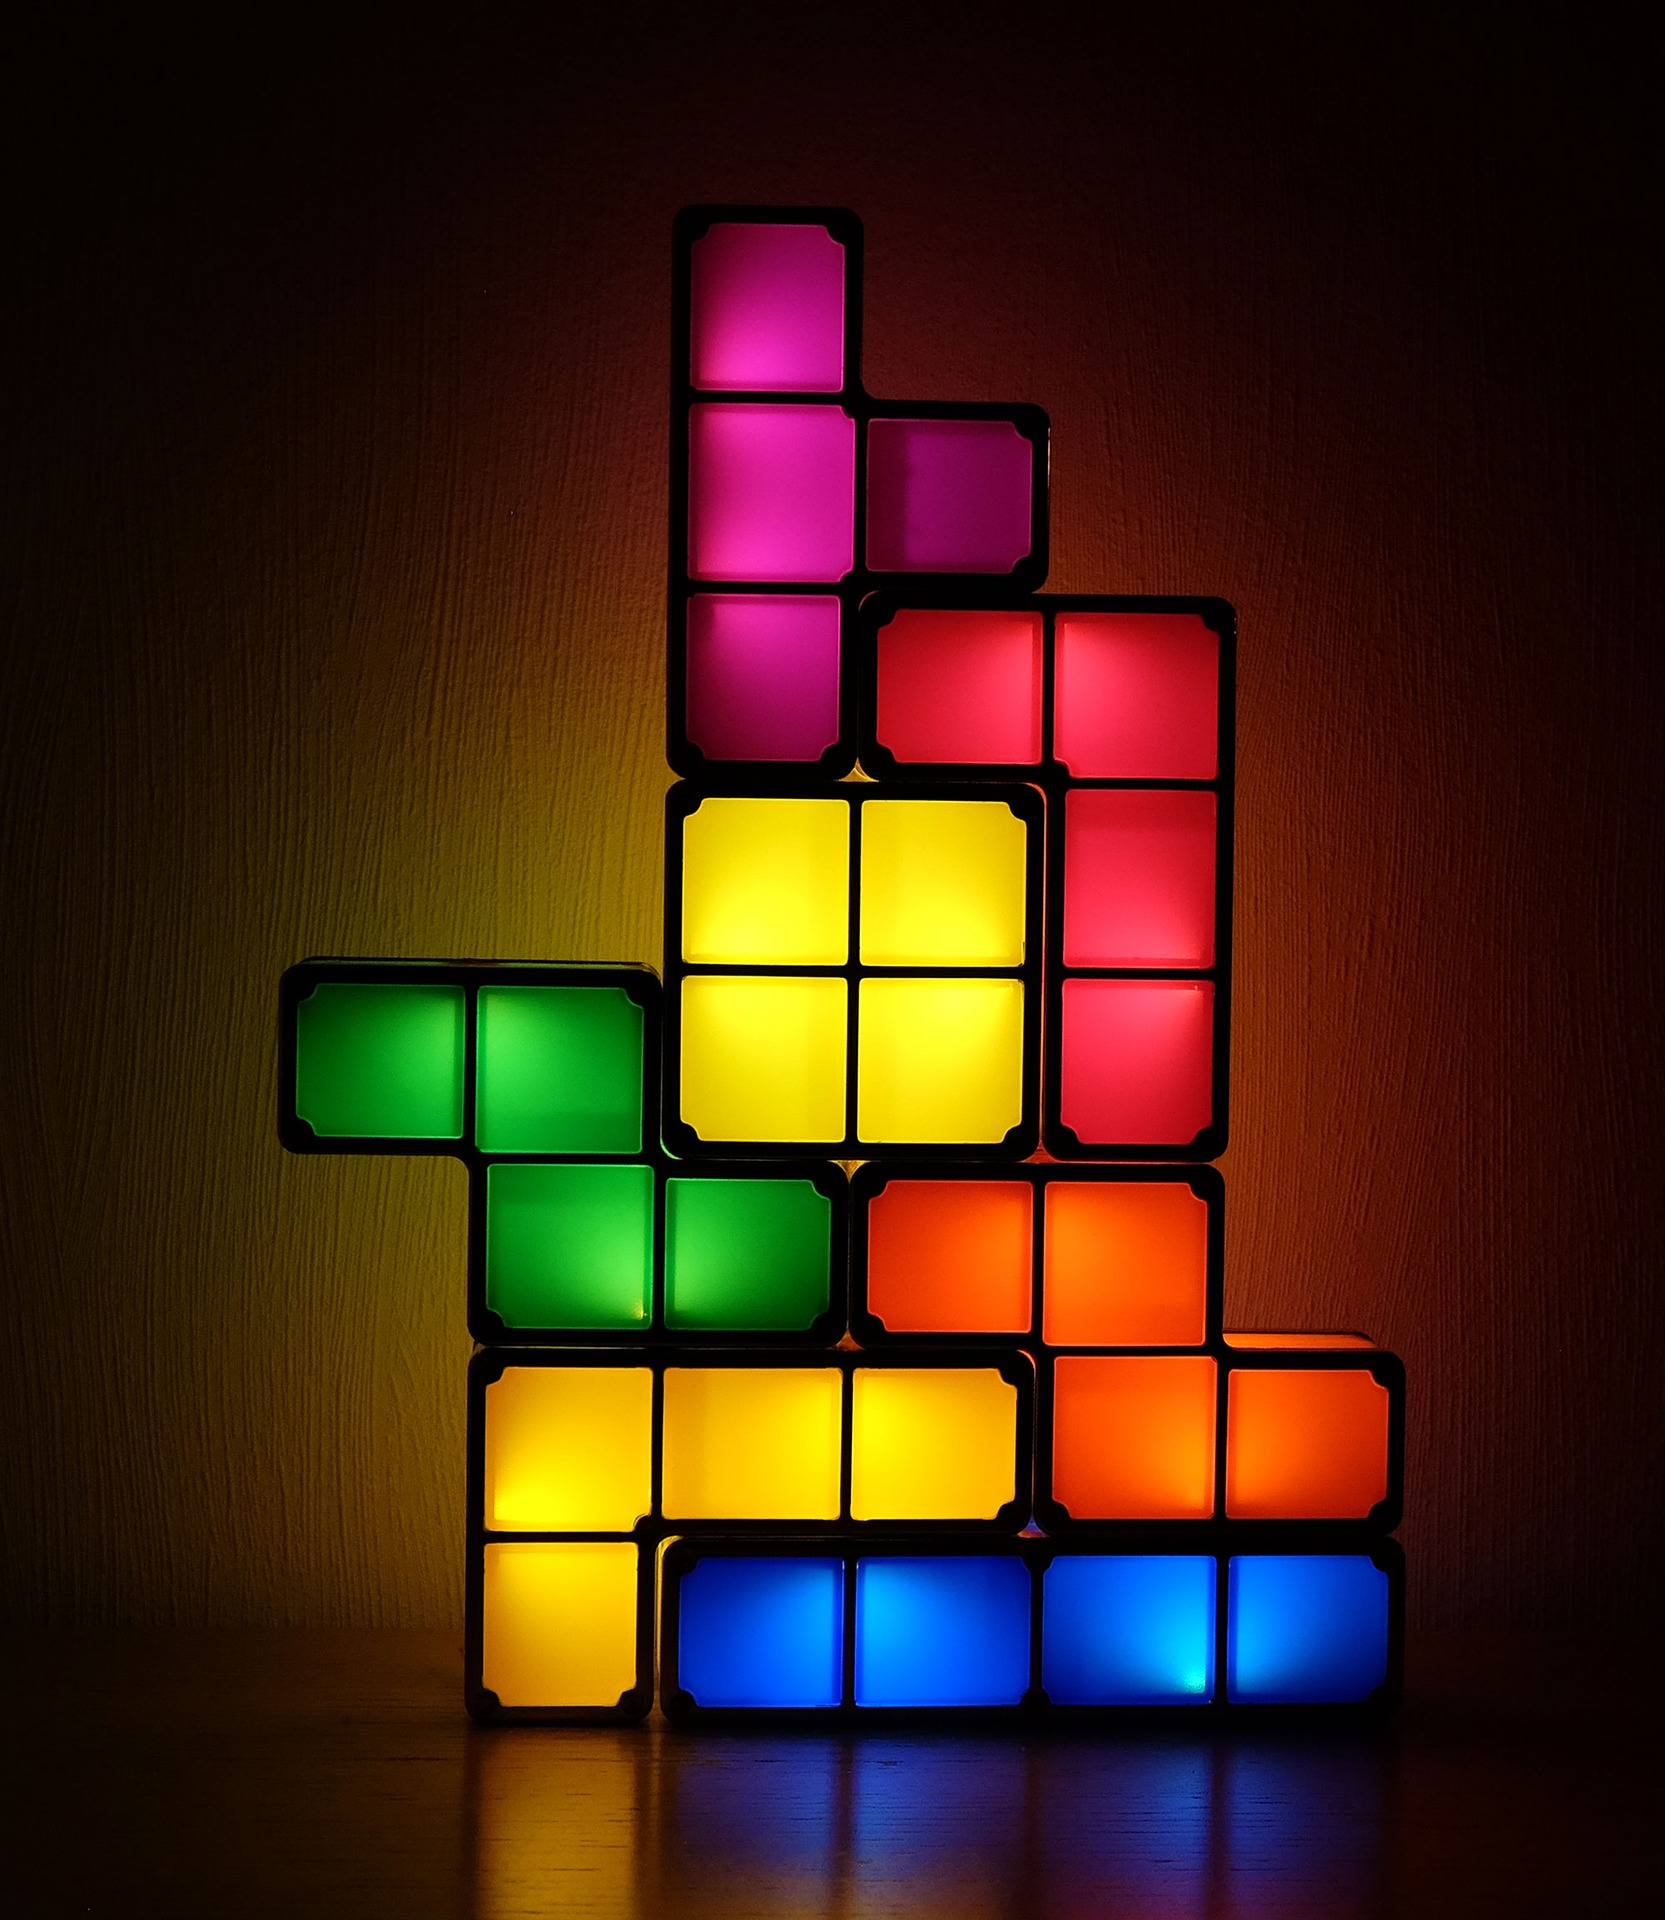
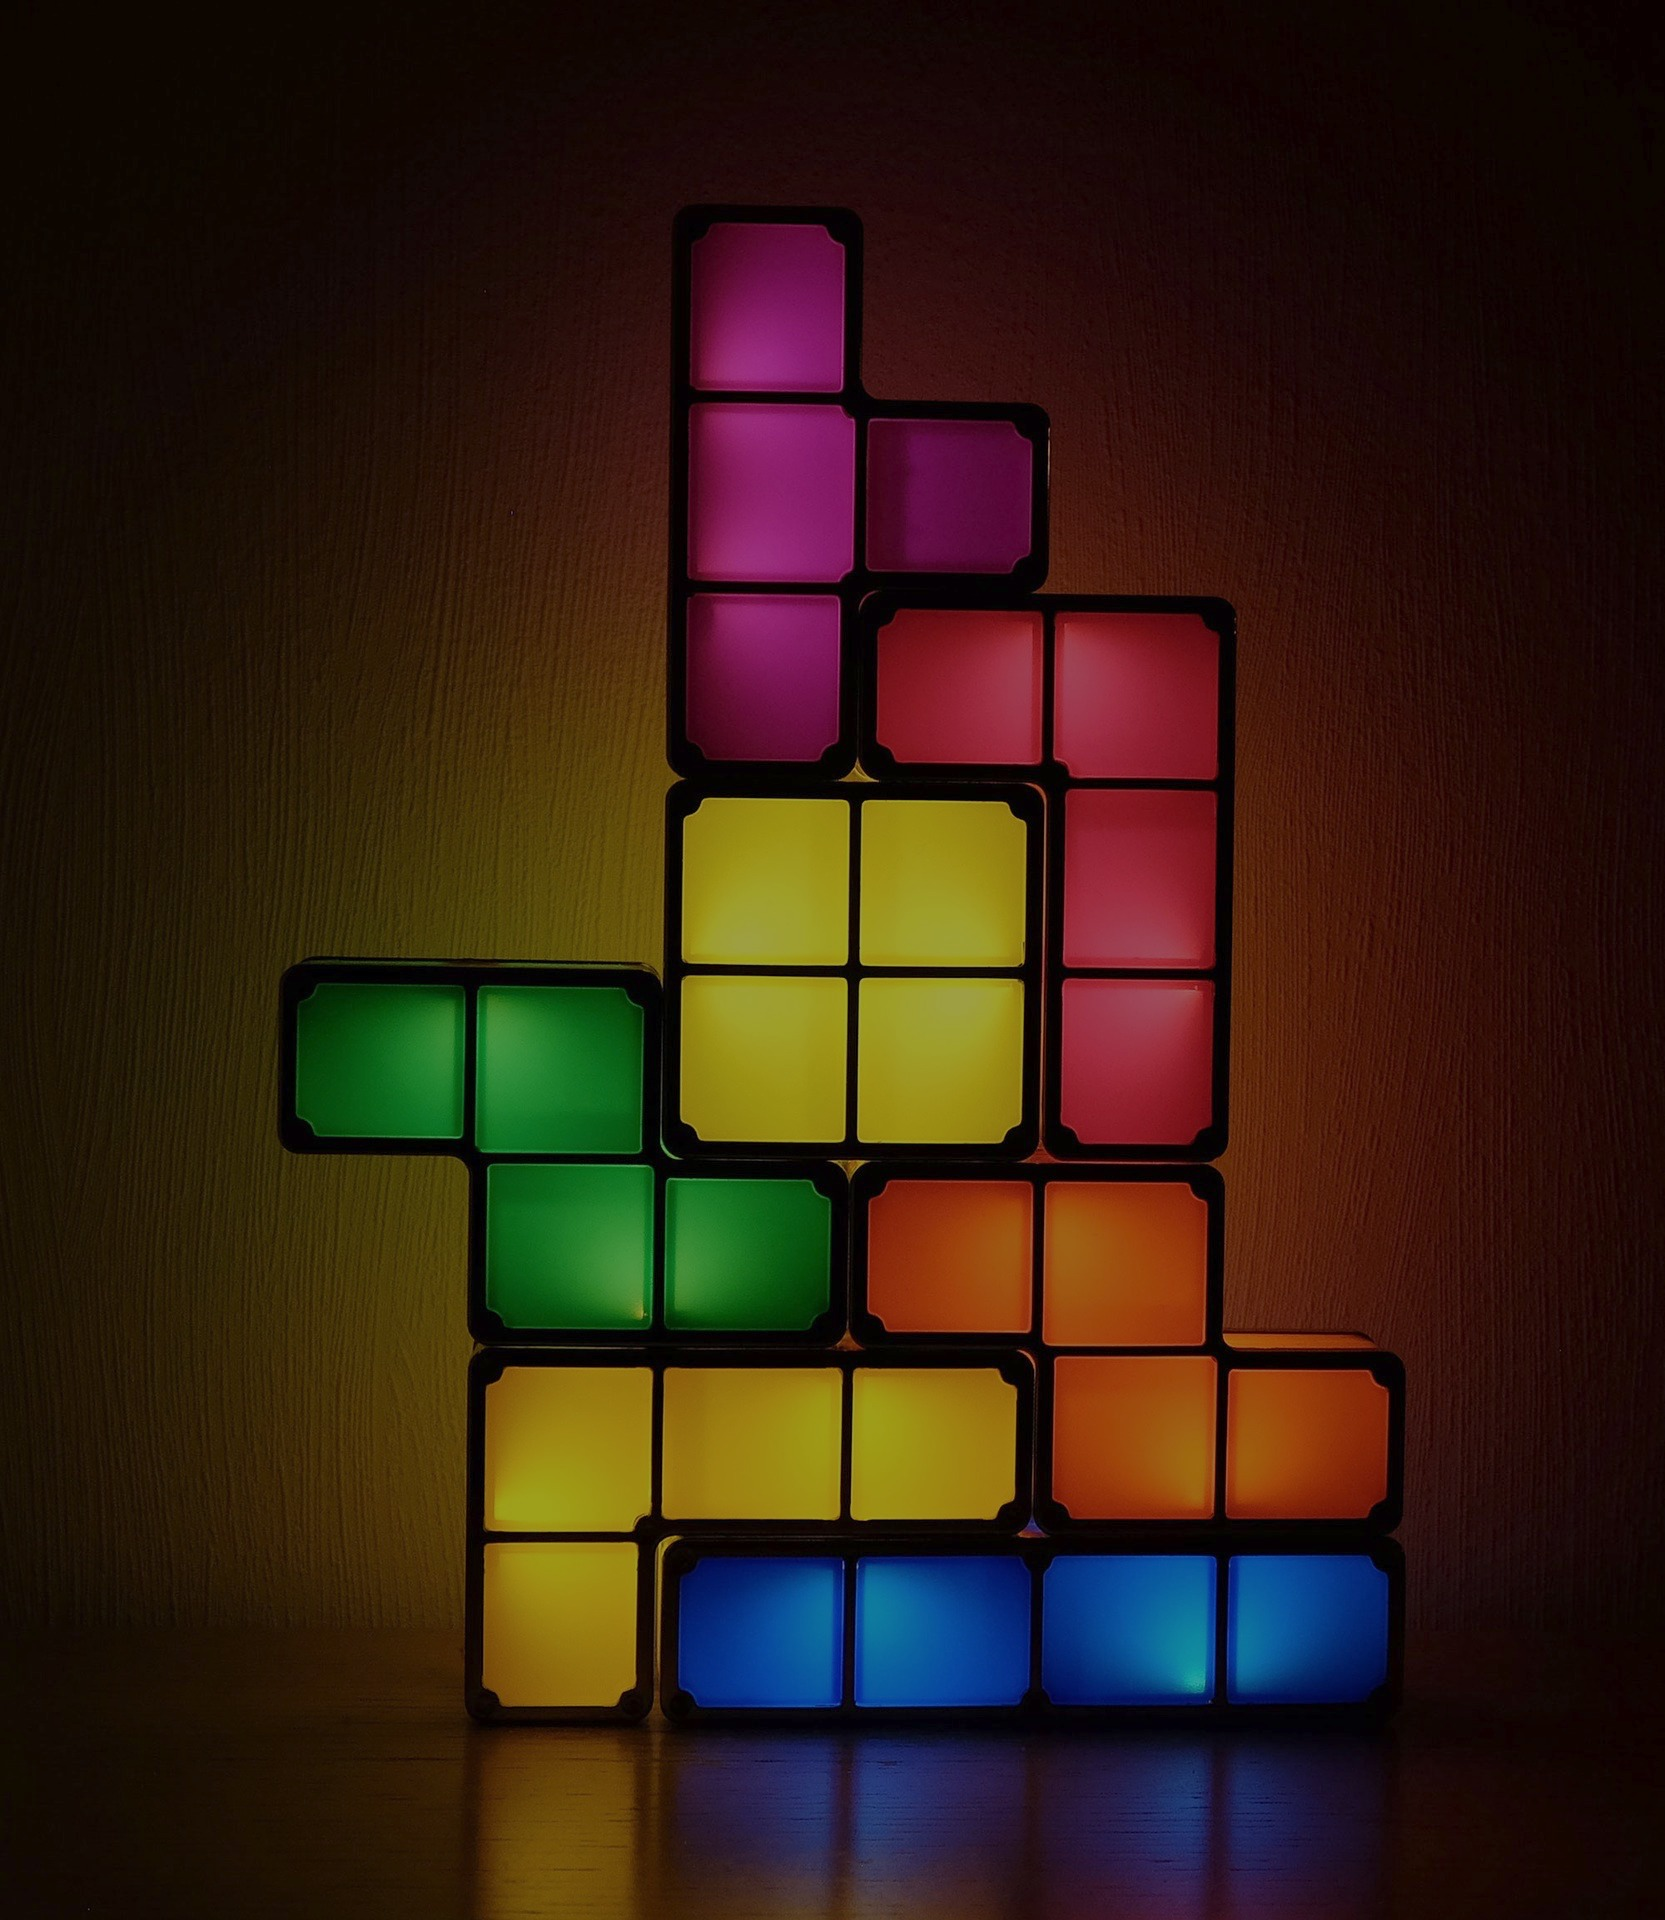
1) Фон затемнен => лучше видно правило игры 2) Добавлен выход из любого места игры по клавише ESC 3) Поле заполняется единицами на месте заполненных клеток

Changed region(s): [[0.1874, 0.0938, 0.8432, 1.0]]

diff --git a/Проект.py b/Проект.py
@@ -75,21 +75,22 @@ def terminate():
 
 
 def start_screen():
+    global key
     intro_text = ["ИГРА ТЕТРИС",
                   "Добро пожаловать в игру тетрис!",
                   "Вас ждут позитив и прекрасное времяпровождение",
                   "Цель игры:",
-                  "заполнить как можно больше горизонтальных линий на игровом ",
+                  "Заполнить как можно больше горизонтальных линий на игровом ",
                   "поле, размещая опускающиеся фигуры и не оставляя пустых ",
                   "пространств между ними.",
                   "Правила: ",
-                  "Вы можете передвигать фигурки вправо-влево при помощи",
+                  "Вы можете передвигать фигурки вправо-влево-вниз при помощи",
                   "стелочек на клавиатуре, а так же поворачивать фигуру ",
                   "по часовой стрелке при нажатии на фигуру мышкой",
                   "(со второго уровня)",
-                  "В игре накапливаются ",
-                  "очки за каждый ",
-                  "собранный ряд.",
+                  "В игре накапливаются очки за каждый собранный ряд. ",
+                  "Чтобы начать игры нажмите на экран или любую клавишу.",
+                  "Чтобы выйти из игры нажмите на крестик или на клавишу ESC",
                   "Желаю удачи ^.^"]
 
     fon = pygame.transform.scale(load_image('tetris.jpg'), (WIDTH, HEIGHT))
@@ -106,8 +107,10 @@ def start_screen():
         screen.blit(string_rendered, intro_rect)
 
     while True:
+        key = pygame.key.get_pressed()
         for event in pygame.event.get():
-            if event.type == pygame.QUIT:
+            if event.type == pygame.QUIT or \
+                    (event.type == pygame.KEYDOWN and event.key == pygame.K_ESCAPE):
                 terminate()
             elif event.type == pygame.KEYDOWN or event.type == pygame.MOUSEBUTTONDOWN:
                 screen.fill((0, 0, 0))
@@ -117,12 +120,15 @@ def start_screen():
 
 
 class Figure(pygame.sprite.Sprite):
+    global field
     def __init__(self, x, y, n, c):
         super().__init__(all_sprites)
         # self.add(figures)
         self.x = x
         self.y = y
         self.n = n
+        self.lastx = 0
+        self.lasty = 0
         self.count = c
         self.go = True
         if n == 0:
@@ -139,6 +145,7 @@ class Figure(pygame.sprite.Sprite):
             pygame.draw.polygon(self.image, pygame.Color(choice(colors)), [(0, 0),
                                                                            (40, 0), (40, 80), (80, 80),
                                                                            (80, 120), (0, 120)], 0)
+
 
     def update(self, flag, *args):
         self.check()
@@ -158,7 +165,25 @@ class Figure(pygame.sprite.Sprite):
                         elif self.n == 1:
                             self.rect.y += min(40, 330 - self.rect.y)
                         elif self.n == 2:
-                            self.rect.y += min(40, 370 - self.rect.y, )
+                            self.rect.y += min(40, 370 - self.rect.y)
+            for i in range(self.lastx, self.lastx + self.rect.width, 40):
+                for j in range(self.lasty, self.lasty + self.rect.height, 40):
+                    try:
+                        cell_x = (i - 10) // 40
+                        cell_y = (j - 10) // 40
+                        field[cell_x][cell_y] = 0
+                    except:
+                        break
+            self.lastx = self.rect.x
+            self.lasty = self.rect.y
+            for i in range(self.rect.x, self.rect.x + self.rect.width, 40):
+                for j in range(self.rect.y, self.rect.y + self.rect.height, 40):
+                    try:
+                        cell_x = (i - 10) // 40
+                        cell_y = (j - 10) // 40
+                        field[cell_x][cell_y] = 1
+                    except:
+                        break
 
 
     def check(self):
@@ -169,11 +194,12 @@ class Figure(pygame.sprite.Sprite):
 
 
 class Board:
+    global field
     # создание поля
     def __init__(self, width, height):
         self.width = width
         self.height = height
-        self.board = [[0] * width for _ in range(height)]
+        self.board = field
         # значения по умолчанию
         self.left = 10
         self.top = 10
@@ -192,6 +218,7 @@ class Board:
                                  [self.left + self.cell_size * j, self.top + self.cell_size * i,
                                                            self.cell_size, self.cell_size], 2)
 
+
 def show_levels():
     levels.draw(screen)
     font = pygame.font.Font(None, 50)
@@ -199,7 +226,8 @@ def show_levels():
     screen.blit(text, (30, 10))
     while True:
         for event in pygame.event.get():
-            if event.type == pygame.QUIT:
+            if event.type == pygame.QUIT or \
+                    (event.type == pygame.KEYDOWN and event.key == pygame.K_ESCAPE):
                 terminate()
             if event.type == pygame.MOUSEBUTTONDOWN:
                 levels.update(event)
@@ -226,7 +254,8 @@ def first_run():
     while True:
         key = pygame.key.get_pressed()
         for event in pygame.event.get():
-            if event.type == pygame.QUIT:
+            if event.type == pygame.QUIT or \
+                    (event.type == pygame.KEYDOWN and event.key == pygame.K_ESCAPE):
                 terminate()
             if event.type == pygame.MOUSEBUTTONDOWN:
                 exit_btn.update(event)
@@ -264,7 +293,7 @@ level1 = Level(30, 80, 1)
 level2 = Level(180, 80, 2)
 level3 = Level(330, 80, 3)
 exit = Exit()
-
+field = [[0] * 11 for _ in range(12)]
 exit_btn.add(exit)
 all_sprites.add(exit)
 all_sprites.add(level1)
